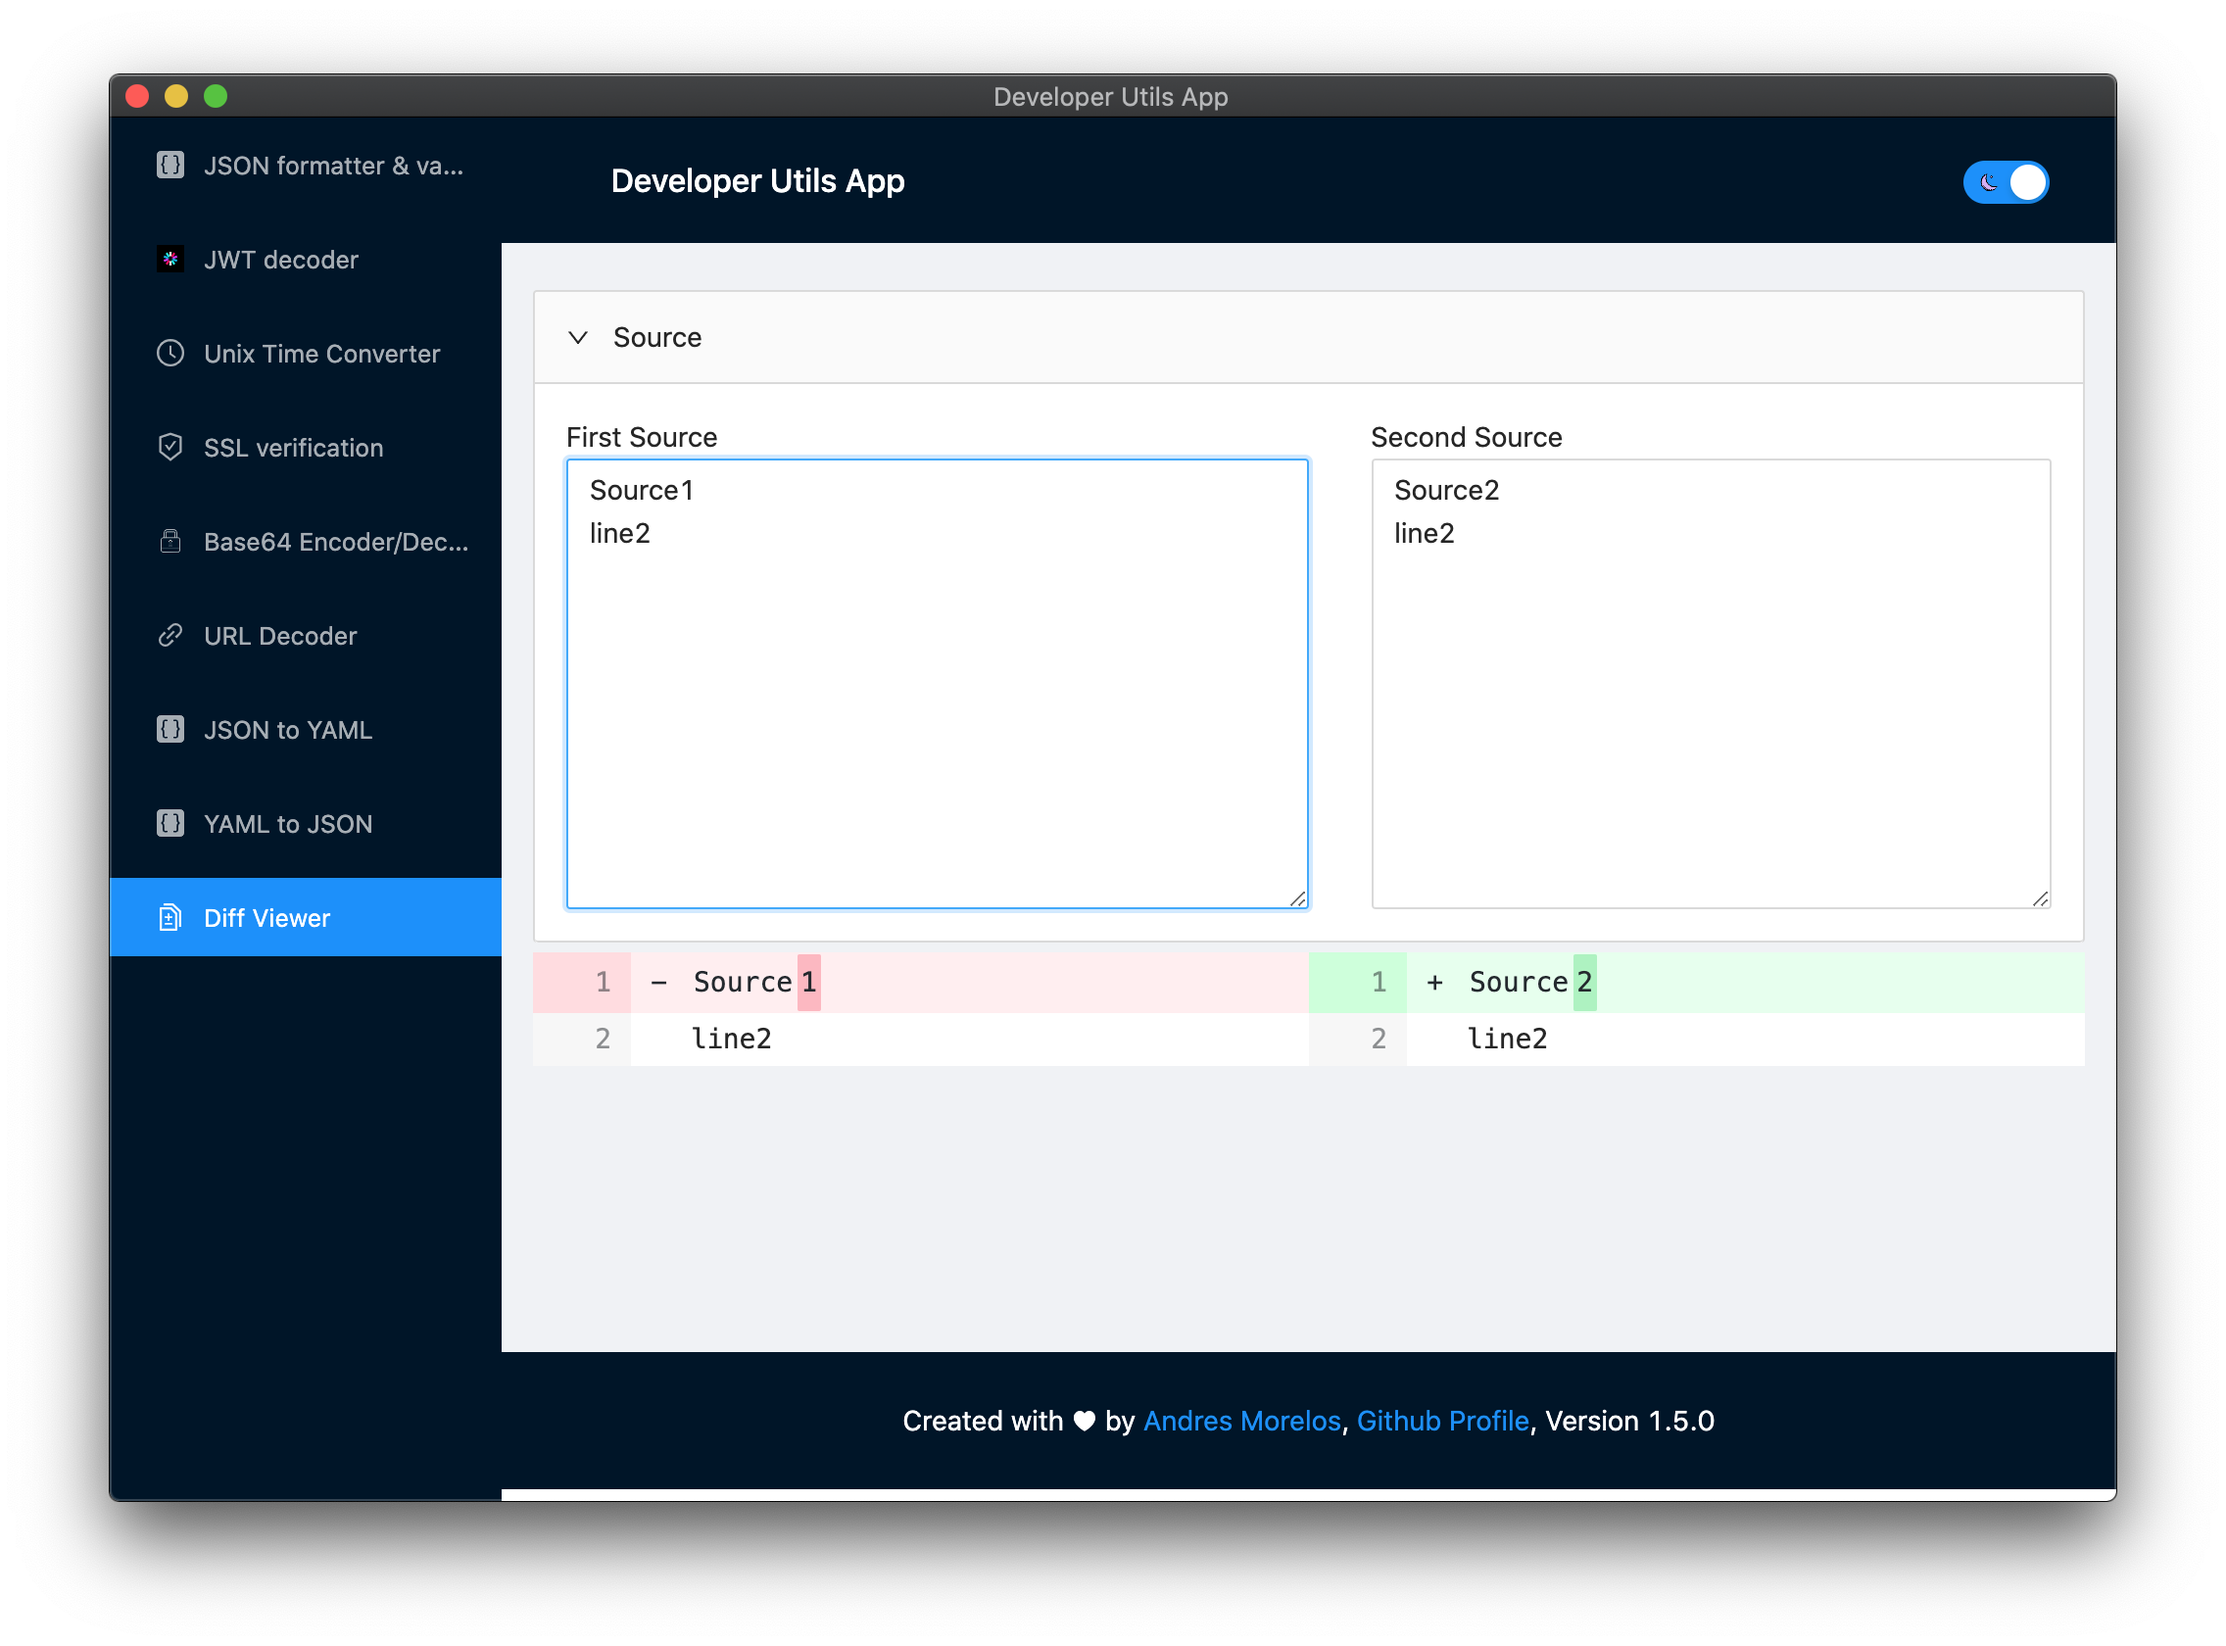
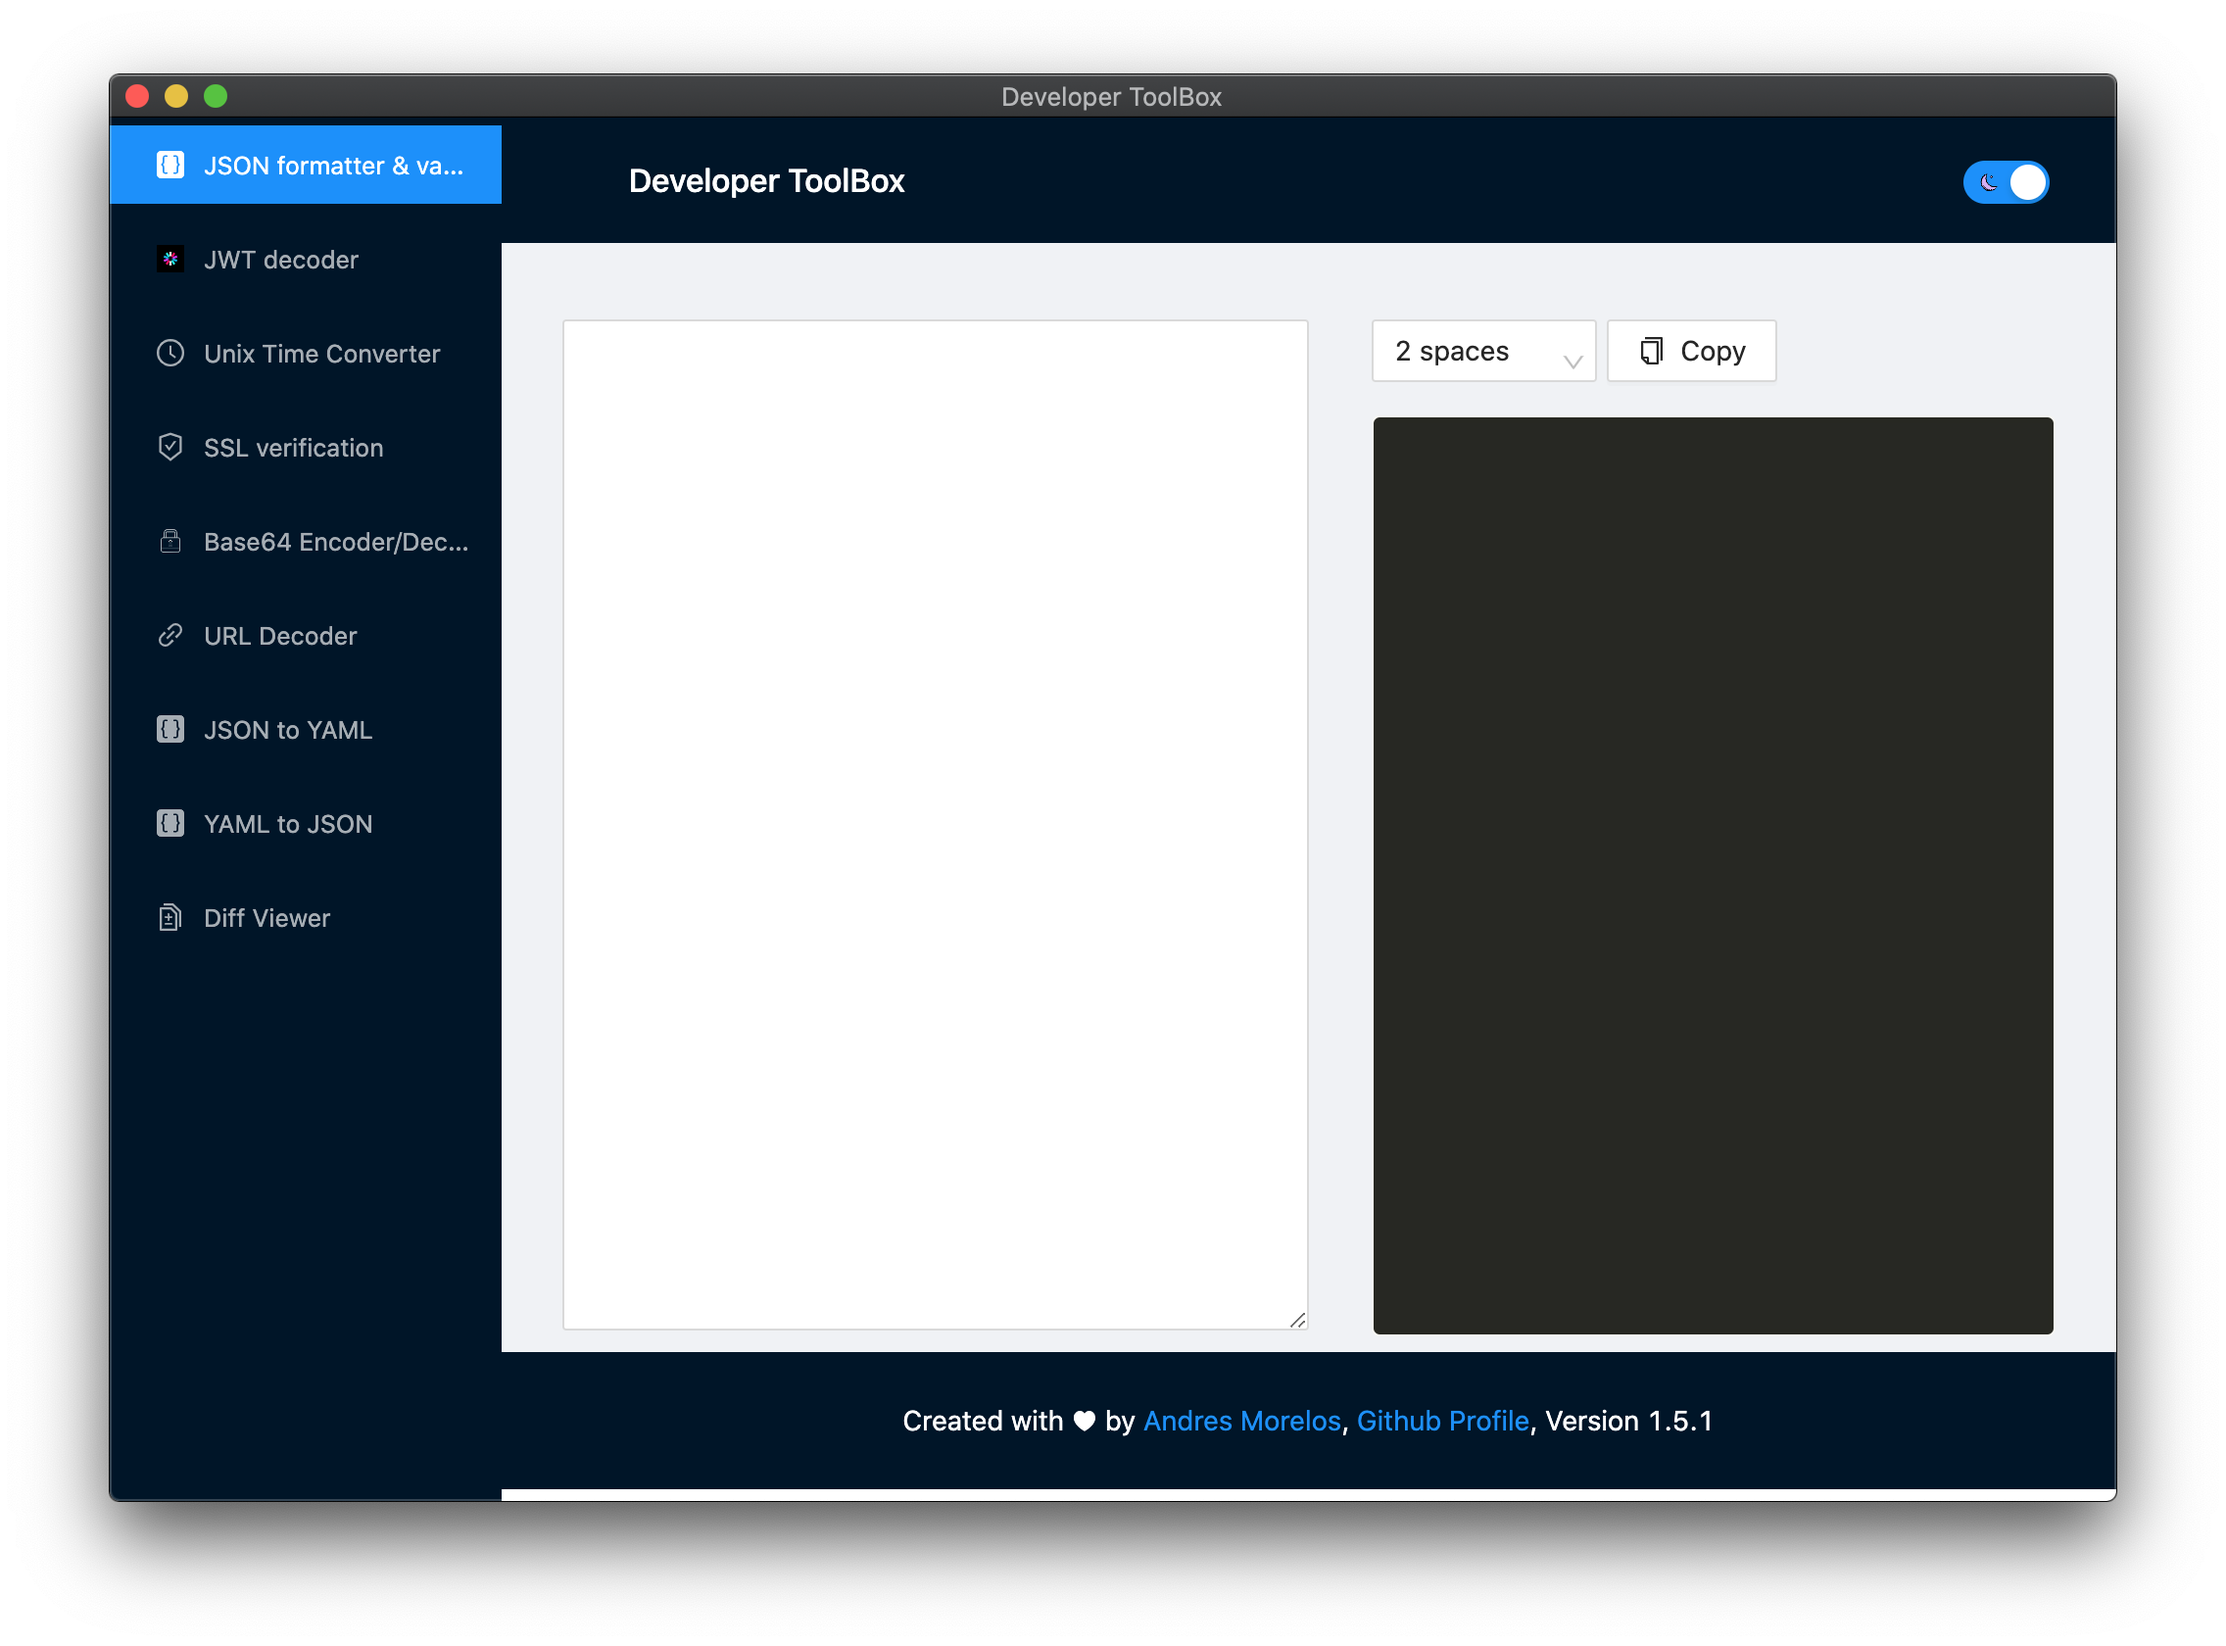
Change name to developer toolbox.

diff --git a/src/App.tsx b/src/App.tsx
@@ -38,7 +38,7 @@ export default function App() {
           >
             <Row>
               <Col span={6}>
-                <h3 className={`color-${theme}`}>Developer Utils App</h3>
+                <h3 className={`color-${theme}`}>Developer ToolBox</h3>
               </Col>
               <Col span={6} offset={11}>
                 <SwitchTheme onChange={changeTheme} />

diff --git a/src/index.html b/src/index.html
@@ -2,7 +2,7 @@
 <html>
   <head>
     <meta charset="utf-8" />
-    <title>Developer Utils App</title>
+    <title>Developer ToolBox</title>
     <script>
       (() => {
         const link = document.createElement('link');

diff --git a/README.md b/README.md
@@ -1,14 +1,14 @@
-## Developer Utils App
+## Developer ToolBox
 
 ![Electron](https://img.shields.io/badge/-Electron-05122A?style=flat&logo=electron)&nbsp;
 ![TypeScript](https://img.shields.io/badge/-TypeScript-05122A?style=flat&logo=typescript)&nbsp;
 ![React](https://img.shields.io/badge/-React-05122A?style=flat&logo=React)&nbsp;
-![GitHub release (latest by date)](https://img.shields.io/github/v/release/AndresMorelos/developer-utils-app)&nbsp;
-![GitHub all releases](https://img.shields.io/github/downloads/AndresMorelos/developer-utils-app/total)&nbsp;
+![GitHub release (latest by date)](https://img.shields.io/github/v/release/AndresMorelos/developer-toolbox)&nbsp;
+![GitHub all releases](https://img.shields.io/github/downloads/AndresMorelos/developer-toolbox/total)&nbsp;
 
 A Must Necessary Developer App.
 
-![Developer Utils App](./.erb/img/dev-utils-app.png)
+![Developer Utils App](./.erb/img/dev-toolbox.png)
 
 ## Features
 
@@ -32,7 +32,7 @@ A Must Necessary Developer App.
 
 ## Releases
 
-[https://github.com/AndresMorelos/developer-utils-app/releases](https://github.com/AndresMorelos/developer-utils-app/releases)
+[https://github.com/AndresMorelos/developer-toolbox/releases](https://github.com/AndresMorelos/developer-toolbox/releases)
 
 ## Icon
 
